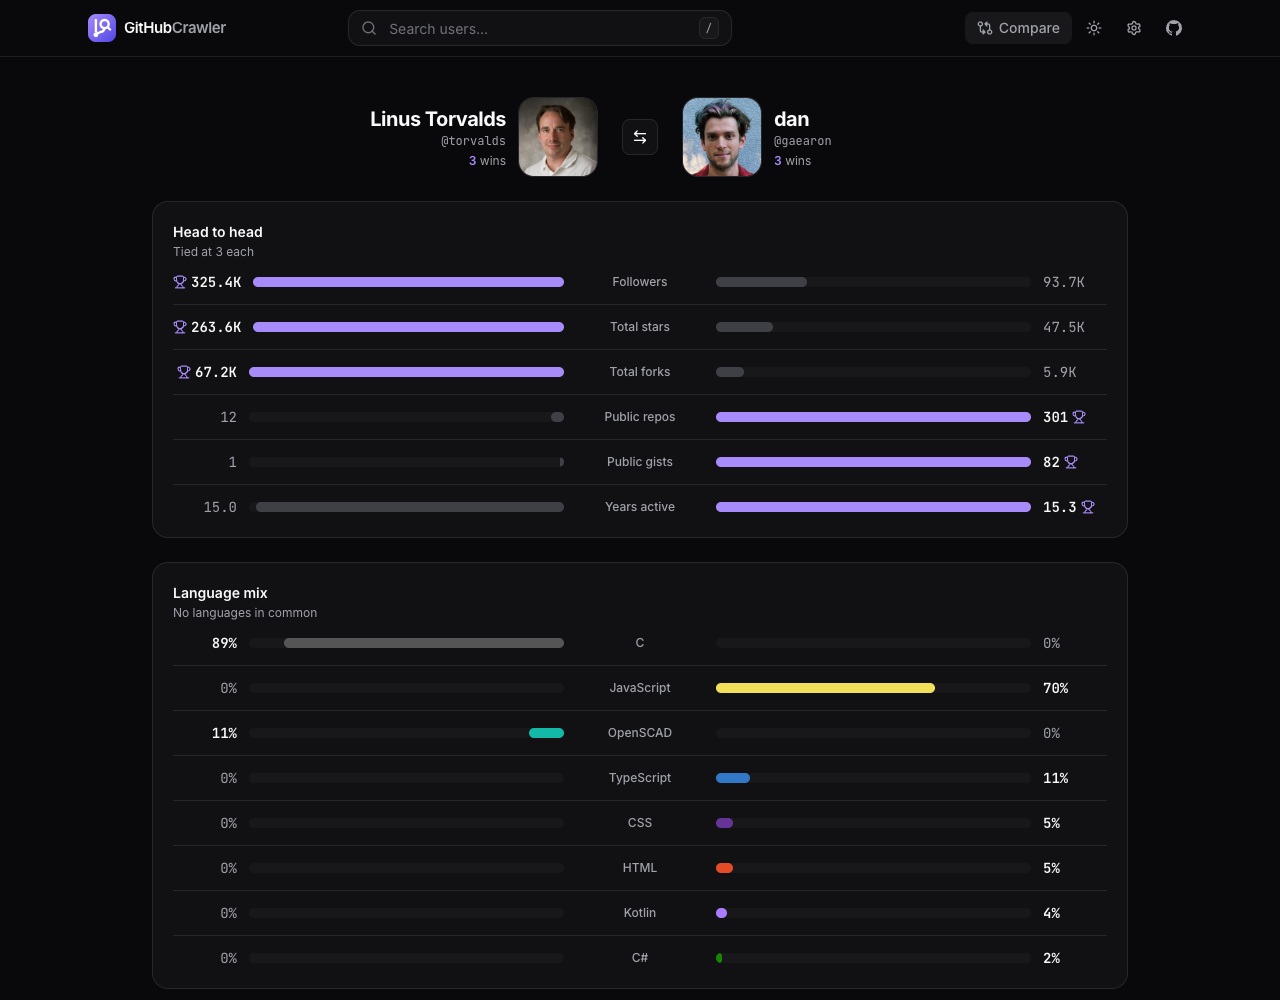
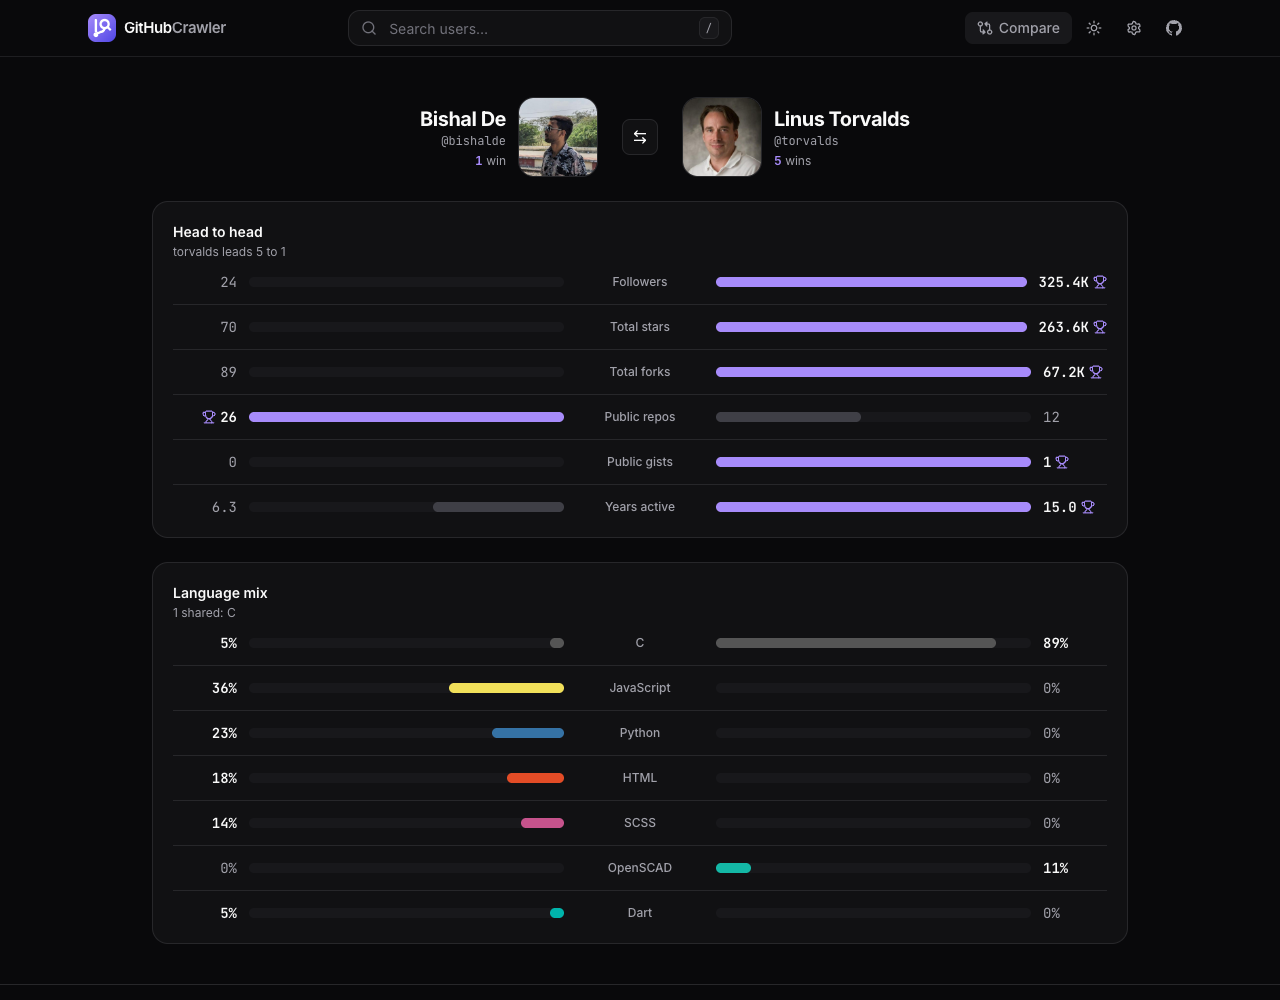
docs: use bishalde in README screenshots and examples
Retake screenshots with the bishalde profile (and bishalde vs torvalds
on compare), add bishalde as the first home-page example, and fix the
'1 wins' label.

diff --git a/src/pages/ComparePage.tsx b/src/pages/ComparePage.tsx
@@ -126,7 +126,7 @@ function UserColumn({ user, wins, align }: { user: GitHubUser | undefined; wins:
         <div className="truncate font-mono text-xs text-muted">@{user.login}</div>
         {wins !== undefined && (
           <div className="mt-1 text-xs text-muted">
-            <span className="font-semibold text-accent tabular">{wins}</span> wins
+            <span className="font-semibold text-accent tabular">{wins}</span> {wins === 1 ? 'win' : 'wins'}
           </div>
         )}
       </div>

diff --git a/src/pages/HomePage.tsx b/src/pages/HomePage.tsx
@@ -3,7 +3,7 @@ import { BarChart3, FolderGit2, GitCompareArrows, Sparkles } from 'lucide-react'
 import { SearchBar } from '../features/search/SearchBar'
 import { RecentSearches } from '../features/search/RecentSearches'
 
-const EXAMPLES = ['torvalds', 'gaearon', 'sindresorhus', 'yyx990803', 'tj']
+const EXAMPLES = ['bishalde', 'torvalds', 'gaearon', 'sindresorhus', 'yyx990803']
 
 const FEATURES = [
   {

diff --git a/README.md b/README.md
@@ -33,12 +33,12 @@ All public repos (up to 500, not just the first 30), with:
 - a language filter
 - toggles to hide forks and archived repos
 
-Filters are kept in the URL, so you can share an exact view, e.g. `/user/gaearon?tab=repositories&lang=JavaScript`.
+Filters are kept in the URL, so you can share an exact view, e.g. `/user/bishalde?tab=repositories&lang=JavaScript`.
 
 ![Repository explorer in light mode](docs/screenshots/repos.png)
 
 ### Compare developers
-`/compare/torvalds/gaearon` puts two profiles head to head: followers, stars, forks, repos, gists and years active, with each metric's leader highlighted, plus a side-by-side language mix. One click swaps the two users.
+`/compare/bishalde/torvalds` puts you head to head with the creator of Linux, or compares any two profiles: followers, stars, forks, repos, gists and years active, with each metric's leader highlighted, plus a side-by-side language mix. One click swaps the two users.
 
 ![Compare page](docs/screenshots/compare.png)
 
@@ -105,7 +105,7 @@ src/
 
 It's a static single-page app. Build with `npm run build` and serve `dist/`.
 
-`vercel.json` already rewrites every path to `index.html`, so deep links like `/user/torvalds` work on Vercel. On other hosts (Netlify, Cloudflare Pages, nginx), configure an equivalent fallback to `index.html`.
+`vercel.json` already rewrites every path to `index.html`, so deep links like `/user/bishalde` work on Vercel. On other hosts (Netlify, Cloudflare Pages, nginx), configure an equivalent fallback to `index.html`.
 
 ## Author
 
